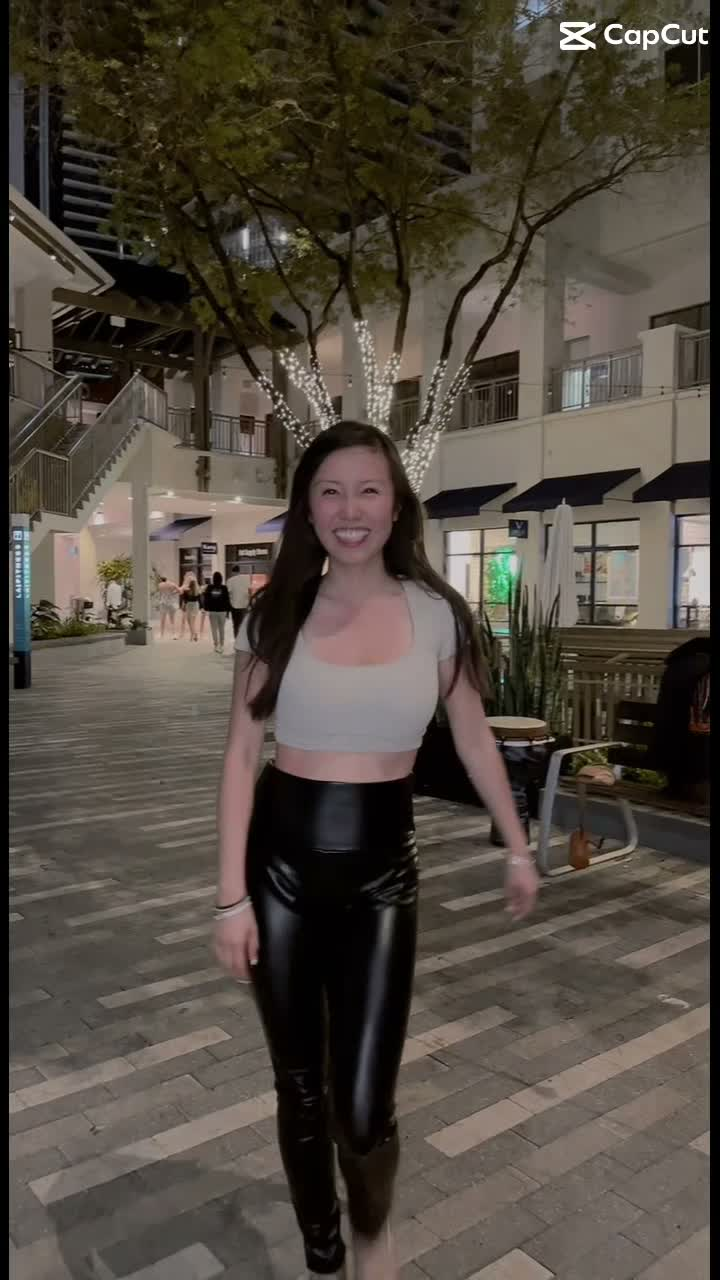
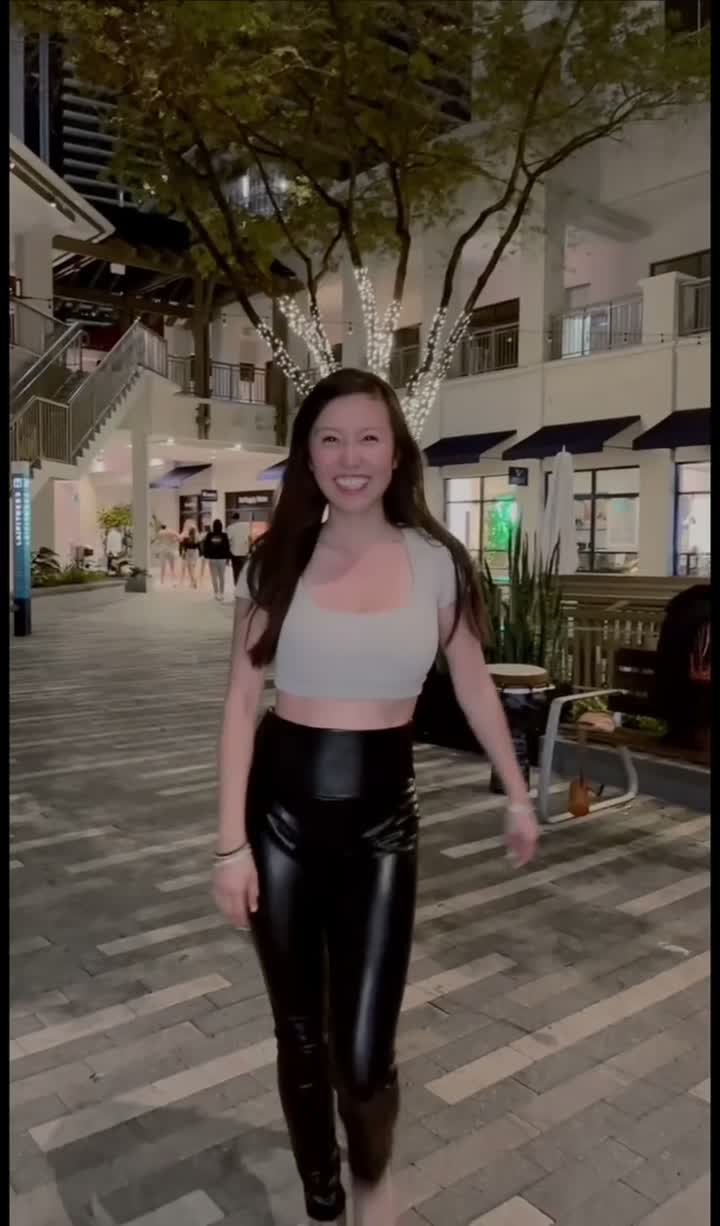
Redesign: black theme, Inter thin font + tighter spacing; swap reel video; label Telegram @user_pei

diff --git a/index.html b/index.html
@@ -6,36 +6,36 @@
 <title>date me doc — jen</title>
 <link rel="preconnect" href="https://fonts.googleapis.com">
 <link rel="preconnect" href="https://fonts.gstatic.com" crossorigin>
-<link href="https://fonts.googleapis.com/css2?family=Poppins:wght@300;400;500;600;700&family=Playfair+Display:ital,wght@0,400;0,500;0,600;0,700;0,900;1,400;1,500;1,600;1,700&display=swap" rel="stylesheet">
+<link href="https://fonts.googleapis.com/css2?family=Inter:wght@200;300;400;500;600&display=swap" rel="stylesheet">
 <style>
   :root {
-    --jungle: #173d2c;
-    --jungle-deep: #0c2a1d;
-    --jungle-mid: #1f5238;
-    --leaf: #3d8c5c;
-    --leaf-light: #6cb37e;
-    --sand: #f5ebd2;
-    --sand-warm: #ecd8a8;
-    --hibiscus: #d83a4d;
-    --sunset: #e89641;
-    --teal: #1f8a82;
-    --banana: #f4c430;
-    --bark: #5d4037;
-    --ink: #2c1810;
-    --ink-soft: #6d4c3d;
-    --cream: #fbf3df;
+    --jungle: #000;
+    --jungle-deep: #000;
+    --jungle-mid: #0a0a0a;
+    --leaf: #242424;
+    --leaf-light: #333333;
+    --sand: #0d0d0d;
+    --sand-warm: #151515;
+    --hibiscus: #f4f4f5;
+    --sunset: #6e6e6e;
+    --teal: #b6b6b8;
+    --banana: #cfcfcf;
+    --bark: #2a2a2a;
+    --ink: #ededed;
+    --ink-soft: #8a8a8a;
+    --cream: #1d1d1f;
   }
   * { margin: 0; padding: 0; box-sizing: border-box; }
 
   html { background: var(--jungle-deep); }
   body {
-    background: radial-gradient(ellipse at top, var(--jungle-mid), var(--jungle-deep) 70%);
-    background-attachment: fixed;
+    background: #000;
     color: var(--ink);
-    font-family: 'Poppins', sans-serif;
-    font-weight: 400;
+    font-family: 'Inter', sans-serif;
+    font-weight: 300;
     font-size: 15px;
-    line-height: 1.55;
+    line-height: 1.5;
+    letter-spacing: -0.012em;
     -webkit-font-smoothing: antialiased;
     min-height: 100vh;
     padding: 32px 16px 60px;
@@ -45,6 +45,7 @@
 
   /* Decorative leaves */
   .leaf-decor {
+    display: none; /* modern minimal — hide tropical leaves */
     position: absolute;
     pointer-events: none;
     z-index: 0;
@@ -74,6 +75,7 @@
     z-index: 2;
     background: var(--sand);
     border-radius: 36px;
+    border: 1px solid #1c1c1e;
     box-shadow:
       0 2px 6px rgba(0,0,0,0.08),
       0 12px 28px rgba(0,0,0,0.15),
@@ -113,7 +115,7 @@
     z-index: 2;
   }
   .reel-label {
-    font-family: 'Playfair Display', serif;
+    font-family: 'Inter', sans-serif;
     font-style: italic;
     font-weight: 600;
     color: var(--hibiscus);
@@ -149,14 +151,14 @@
     margin: 14px 0 4px;
   }
   .title {
-    font-family: 'Playfair Display', serif;
-    font-weight: 700;
-    font-style: italic;
-    font-size: 3.4rem;
-    line-height: 1.02;
+    font-family: 'Inter', sans-serif;
+    font-weight: 200;
+    font-style: normal;
+    font-size: 3.6rem;
+    line-height: 1.0;
     color: var(--hibiscus);
     margin-bottom: 4px;
-    letter-spacing: -0.5px;
+    letter-spacing: -0.045em;
     text-shadow: none;
   }
   .by { font-size: 1rem; color: var(--ink-soft); font-weight: 500; }
@@ -200,18 +202,19 @@
   /* SECTIONS */
   section { margin-top: 22px; position: relative; z-index: 2; }
   h2 {
-    font-family: 'Playfair Display', serif;
-    font-weight: 600;
-    font-style: italic;
-    font-size: 1.65rem;
+    font-family: 'Inter', sans-serif;
+    font-weight: 300;
+    font-style: normal;
+    font-size: 1.5rem;
     line-height: 1.2;
     color: var(--teal);
     margin-bottom: 8px;
     text-align: center;
     text-shadow: none;
+    letter-spacing: -0.02em;
   }
   h2::before, h2::after {
-    content: "✦";
+    content: "";
     color: var(--sunset);
     font-style: normal;
     font-size: 0.6em;
@@ -256,7 +259,7 @@
     border: 1.5px solid var(--leaf);
     border-radius: 100px;
     color: var(--ink);
-    font-family: 'Poppins', sans-serif;
+    font-family: 'Inter', sans-serif;
     font-weight: 500;
     font-size: 0.88rem;
     line-height: 1.5;
@@ -348,7 +351,7 @@
   /* CTA */
   .cta { margin-top: 32px; text-align: center; }
   .cta-btn {
-    font-family: 'Playfair Display', serif;
+    font-family: 'Inter', sans-serif;
     font-weight: 600;
     font-style: italic;
     font-size: 1.5rem;
@@ -430,7 +433,7 @@
   </div>
 
   <div class="contact">
-    📱 <a href="https://t.me/jenn_pei">@jenn_pei</a><span class="sep">·</span>
+    ✈️ Telegram <a href="https://t.me/jenn_pei">@jenn_pei</a><span class="sep">·</span>
     💬 <a href="https://wa.me/19177431266">917-743-1266</a><span class="sep">·</span>
     ✉️ <a href="sms:+19177431266">text</a>
   </div>
@@ -463,7 +466,7 @@
       </g>
 
       <!-- Inside labels on bigger slices -->
-      <g fill="#fbf3df" font-family="Poppins, sans-serif" text-anchor="middle">
+      <g fill="#fbf3df" font-family="Inter, sans-serif" text-anchor="middle">
         <text x="321" y="210" font-size="17" font-weight="700">ai coding</text>
         <text x="321" y="232" font-size="15" font-weight="600">56%</text>
 
@@ -487,7 +490,7 @@
       </g>
 
       <!-- Outside labels for small slices -->
-      <g fill="#3e2723" font-family="Poppins, sans-serif" font-weight="600" font-size="13">
+      <g fill="#e8e8e8" font-family="Inter, sans-serif" font-weight="400" font-size="13">
         <text x="85" y="55" text-anchor="end">💪 exercising 7%</text>
         <text x="220" y="22" text-anchor="middle">👯 friends 6%</text>
         <text x="375" y="34" text-anchor="start">💕 dating 5%</text>